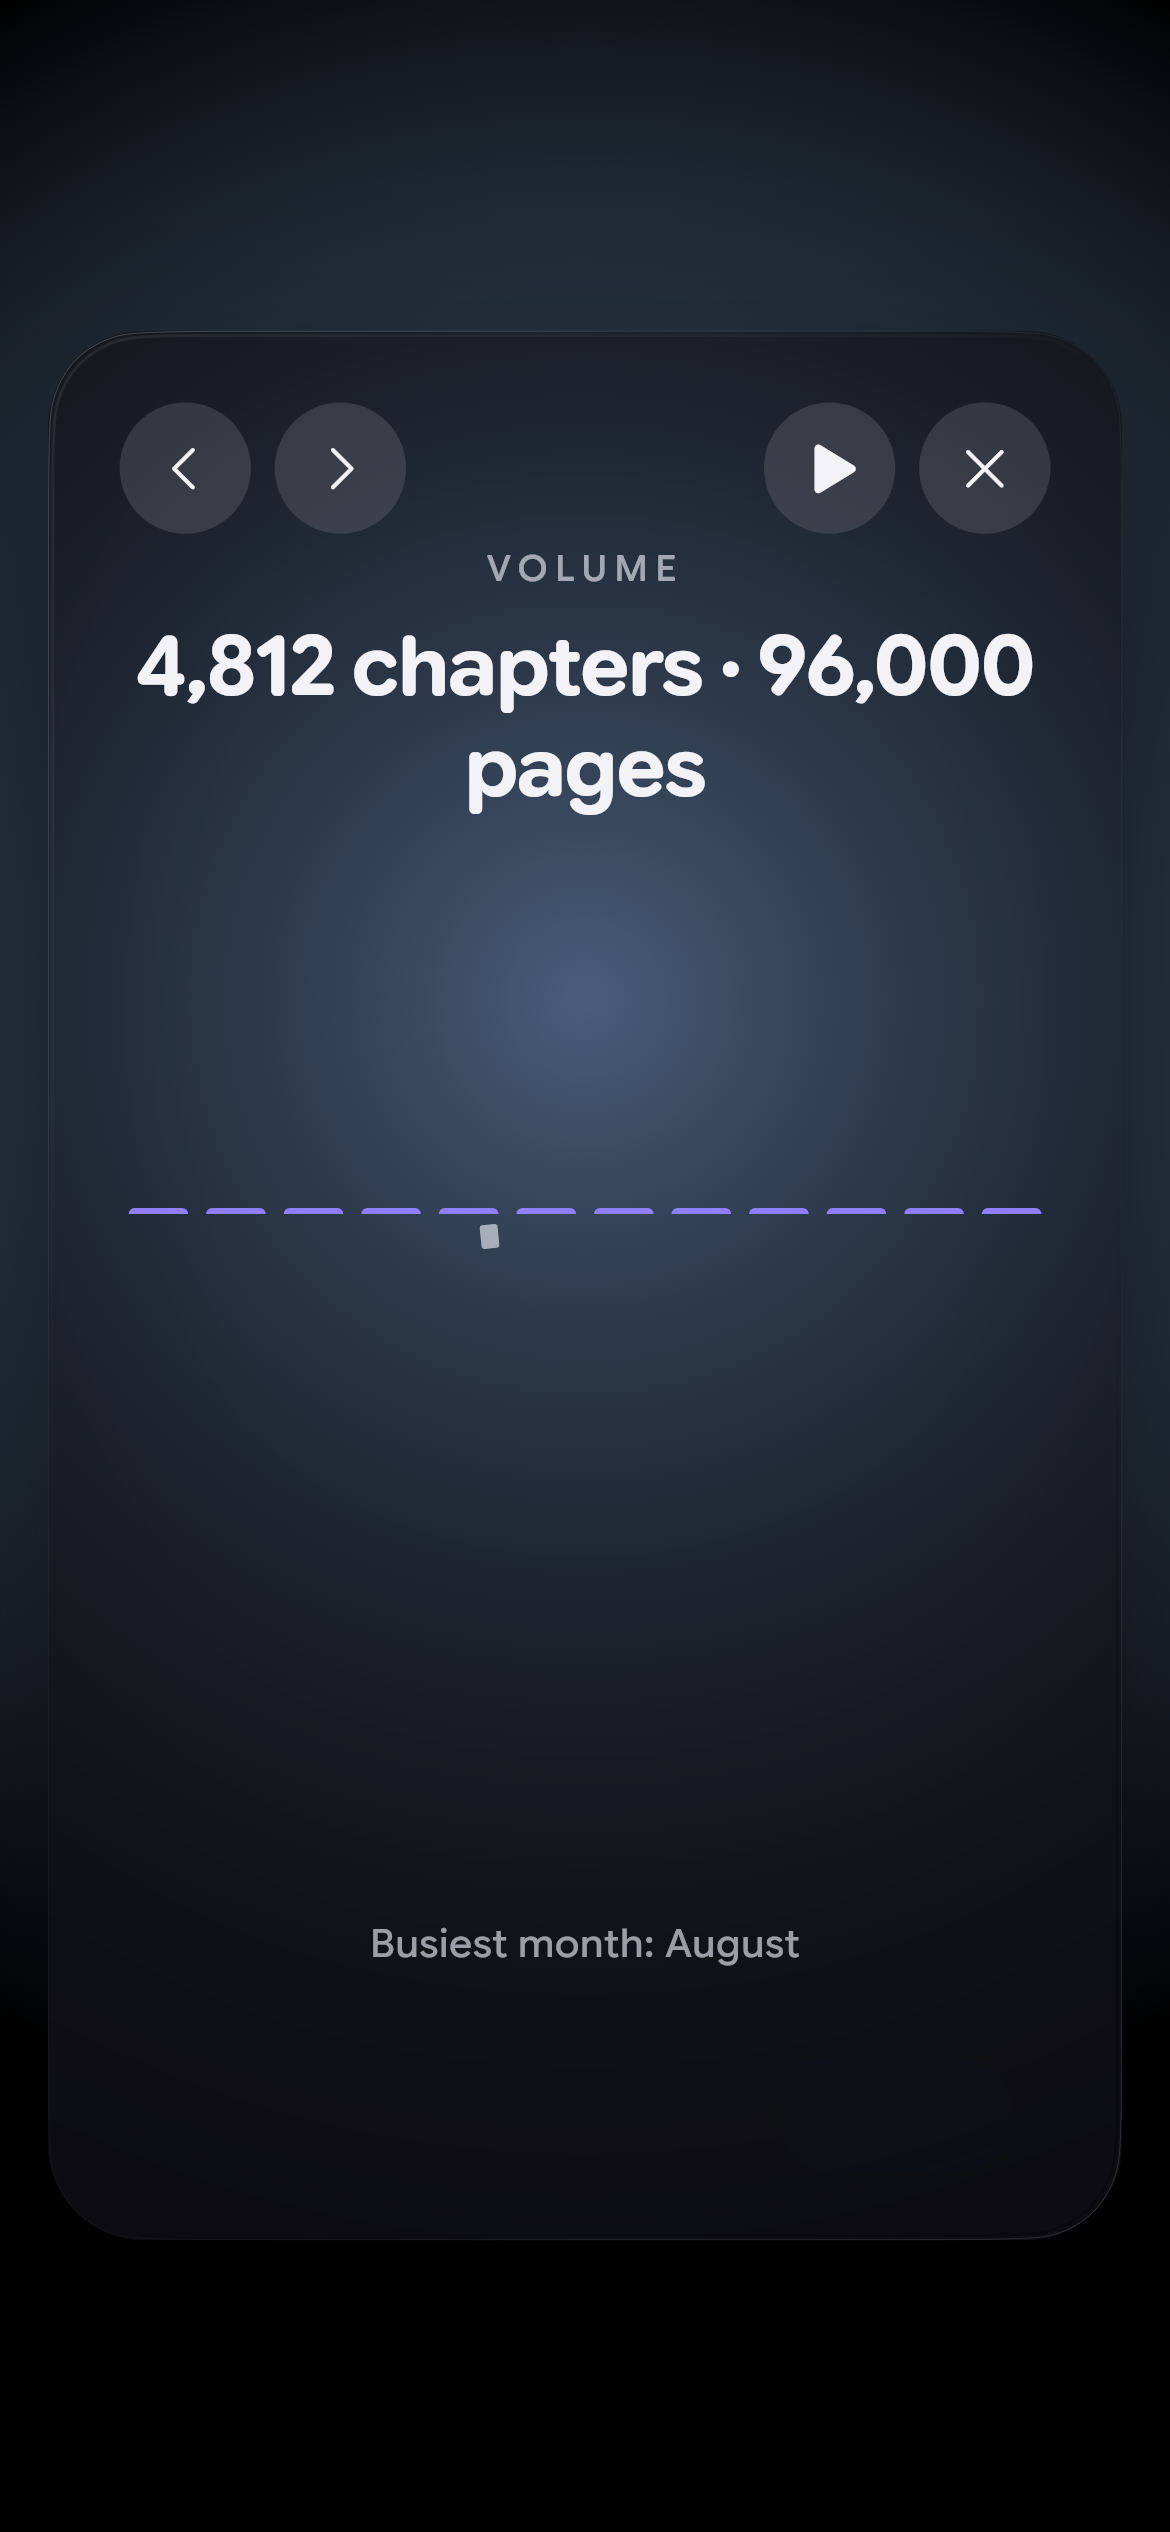
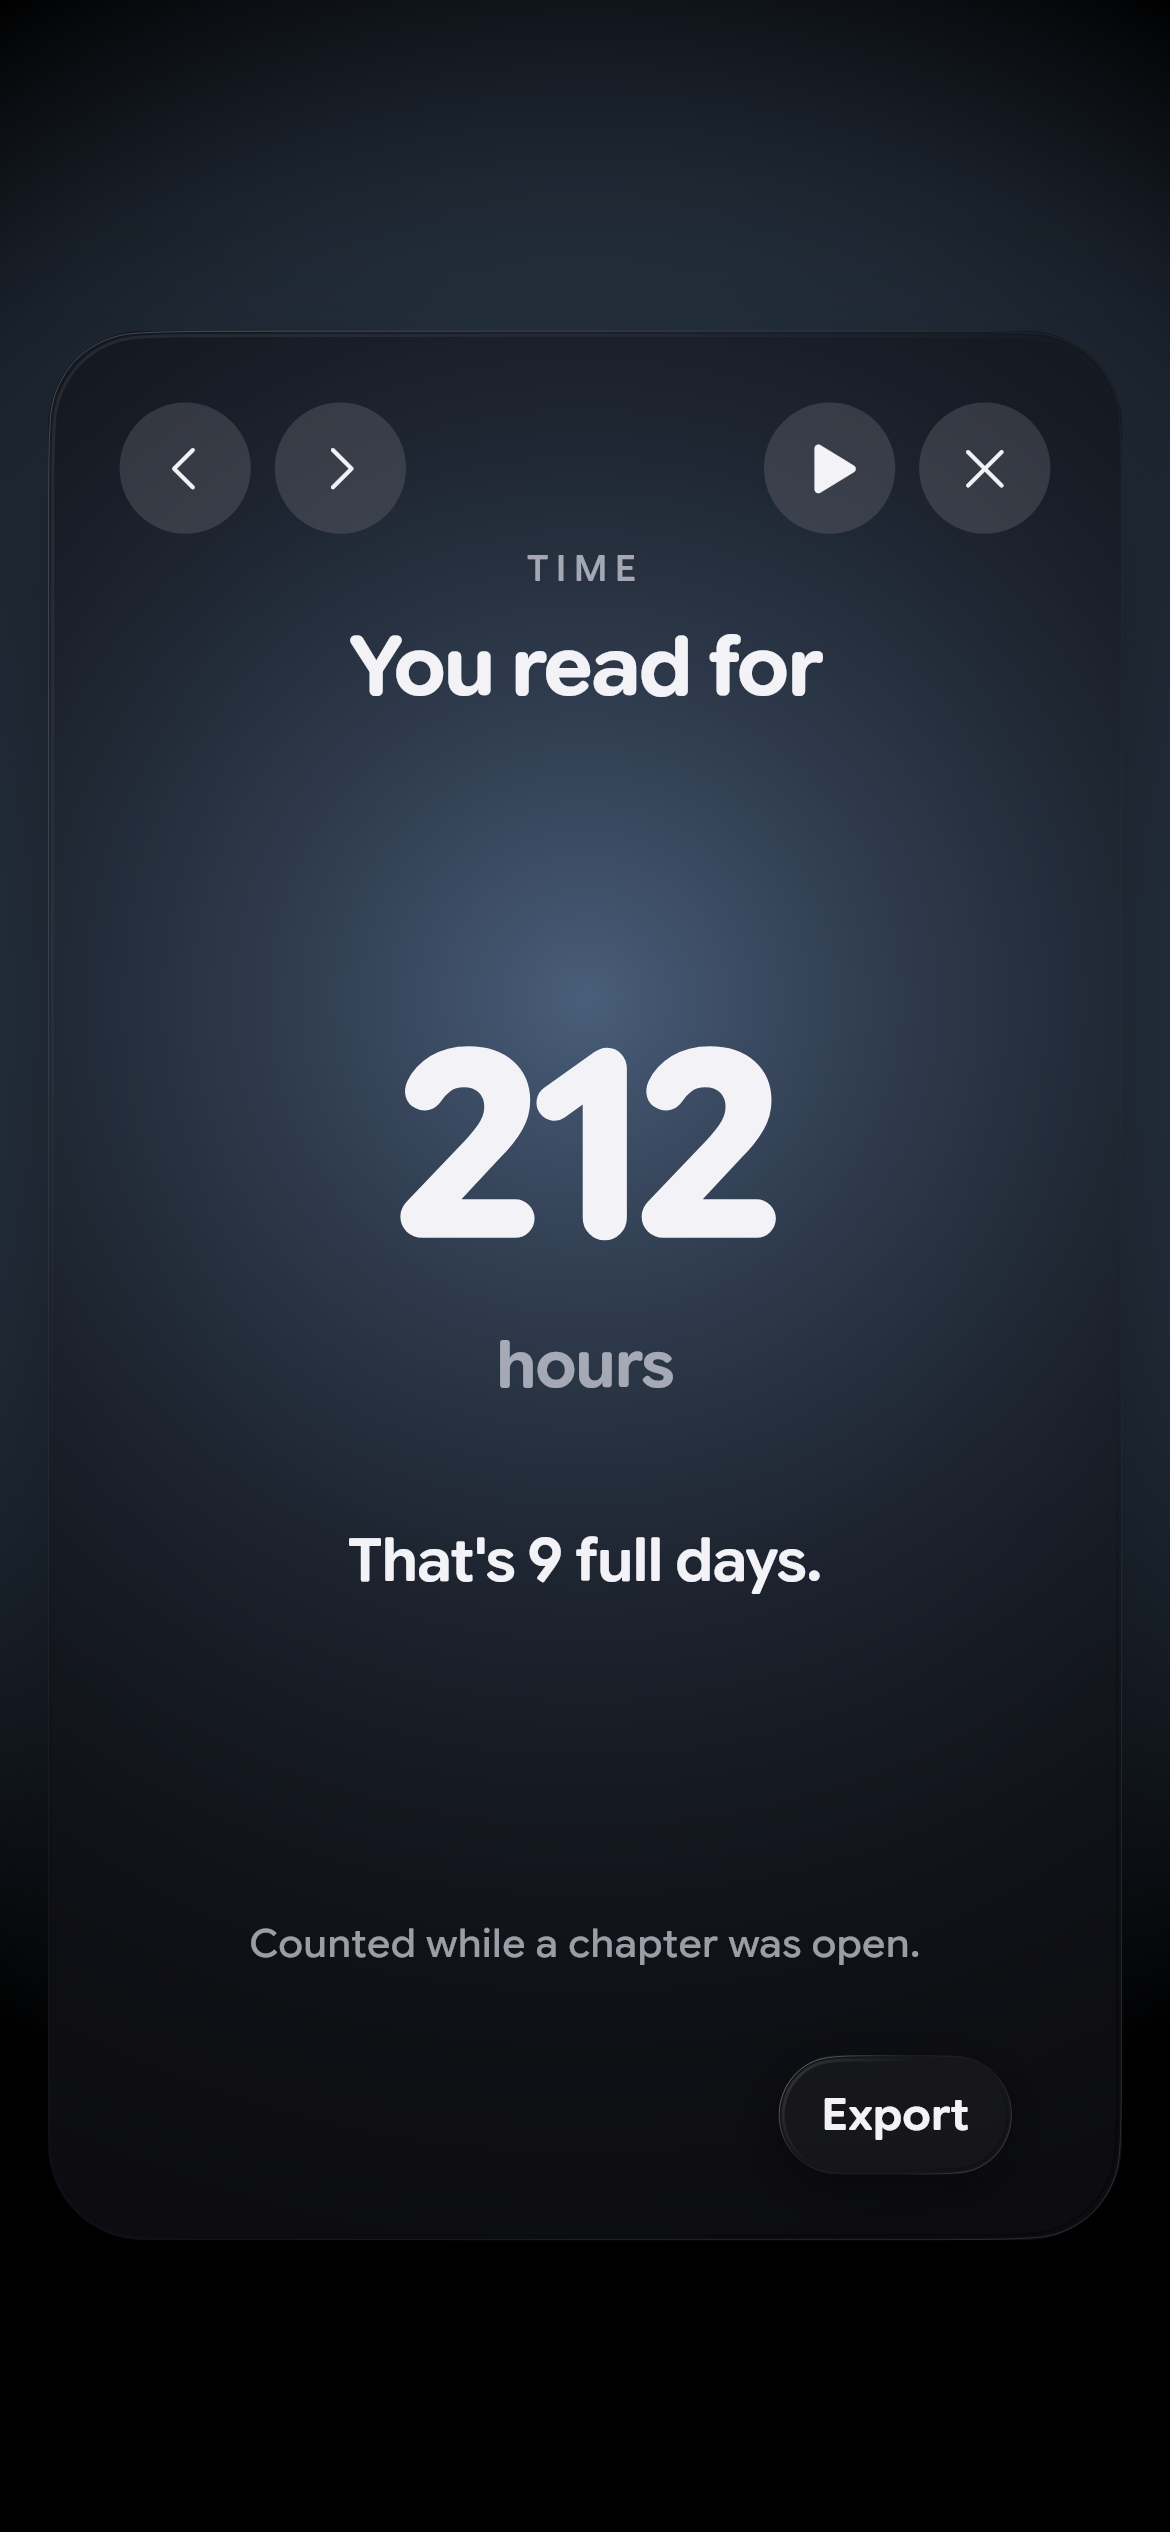
mobile-42: card captures step to the named card and let the count-ups finish

diff --git a/mobile/test/screenshots/glass/mobile_42_stats_wrapped_shots_test.dart b/mobile/test/screenshots/glass/mobile_42_stats_wrapped_shots_test.dart
@@ -77,6 +77,13 @@ Annual _annual() => Annual.fromJson({
       },
     });
 
+bool _only(WrappedCard c) {
+  final keys = [
+    for (final e in find.byWidgetPredicate((w) => w.key is ValueKey<String> && (w.key! as ValueKey<String>).value.startsWith('wrapped-card-')).evaluate()) (e.widget.key! as ValueKey<String>).value,
+  ];
+  return keys.length == 1 && keys.single == 'wrapped-card-${c.name}';
+}
+
 void main() {
   setUpAll(loadAppFonts);
   setUpAll(setUpShotCoverCache);
@@ -123,9 +130,17 @@ void main() {
       await s.snap('wrapped-01-cover', size);
       if (size != _phone) continue;
       for (var i = 1; i < cards.length; i++) {
-        await t.sendKeyEvent(LogicalKeyboardKey.arrowRight);
-        await s.settle();
-        await s.settle(2600);
+        // Step until this card is the only one up (the file name always matches what is shown).
+        for (var k = 0; k < 3 && !_only(cards[i]); k++) {
+          await t.sendKeyEvent(LogicalKeyboardKey.arrowRight);
+          await s.settle();
+          await s.settle(1200);
+        }
+        if (!_only(cards[i])) continue;
+        for (var f = 0; f < 30; f++) {
+          await t.pump(const Duration(milliseconds: 100));
+        }
+        await pumpUntilCoversLoad(t, rounds: 6);
         await s.snap('wrapped-${cards[i].number.toString().padLeft(2, '0')}-${cards[i].name}', size);
       }
     }
